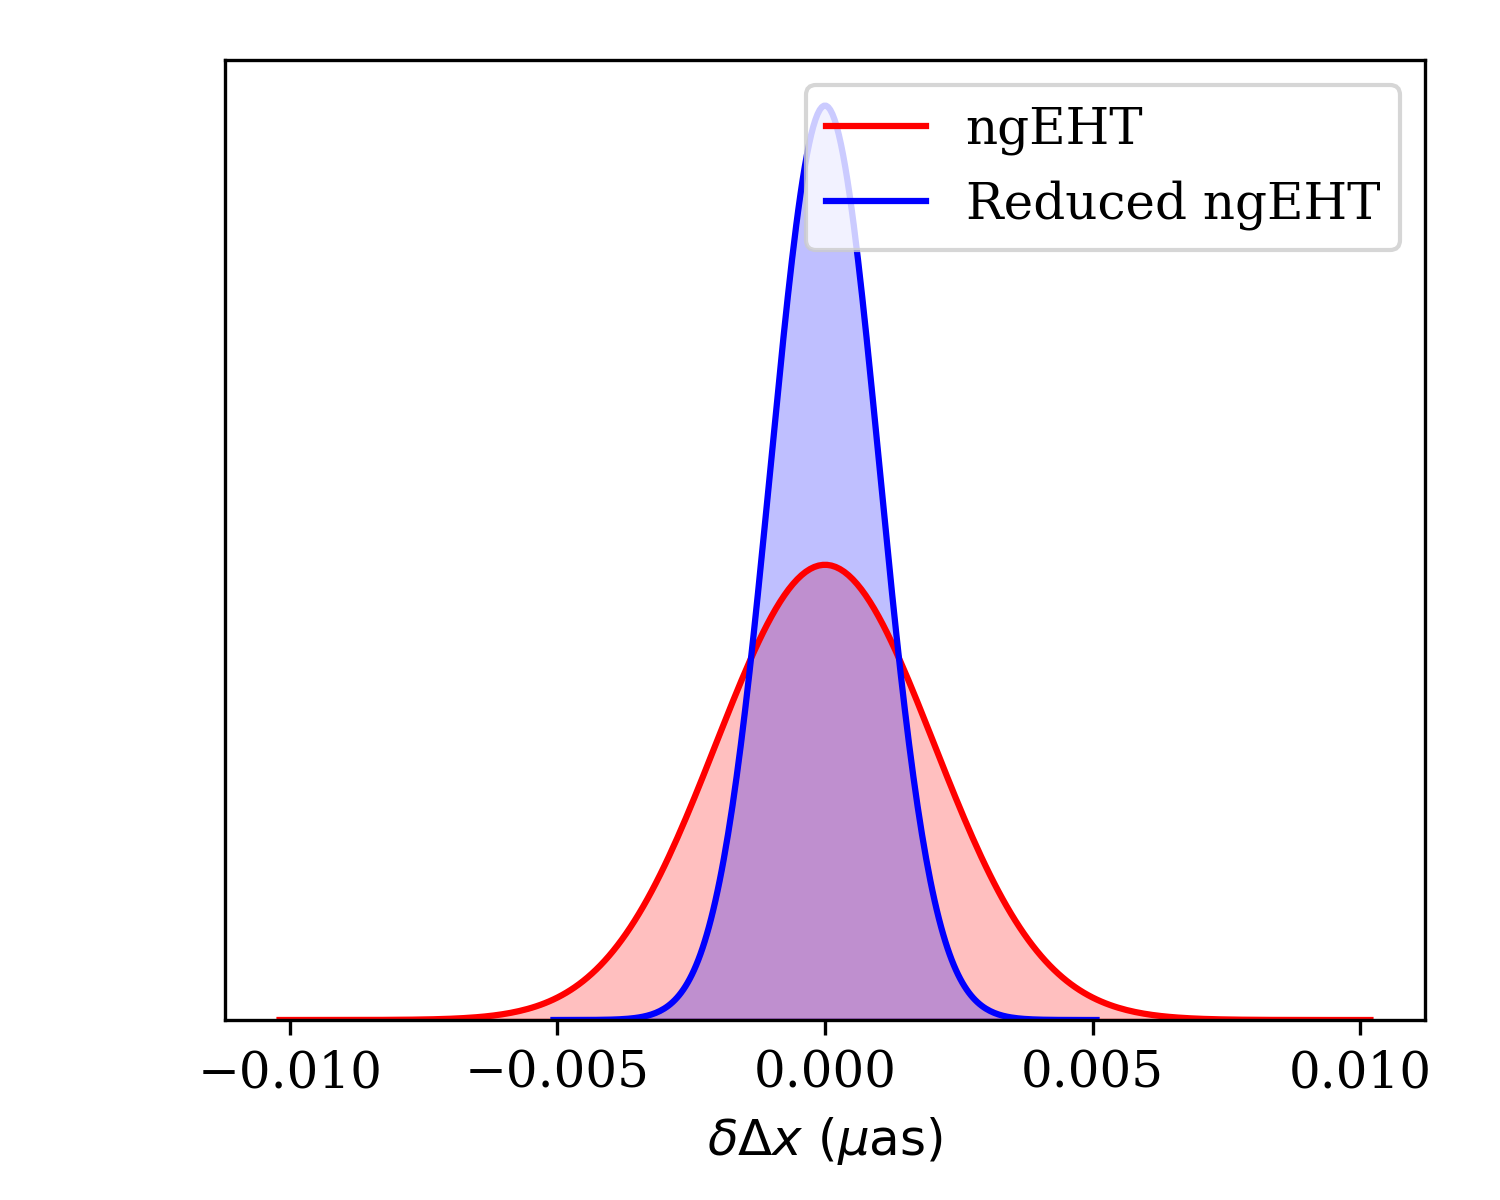
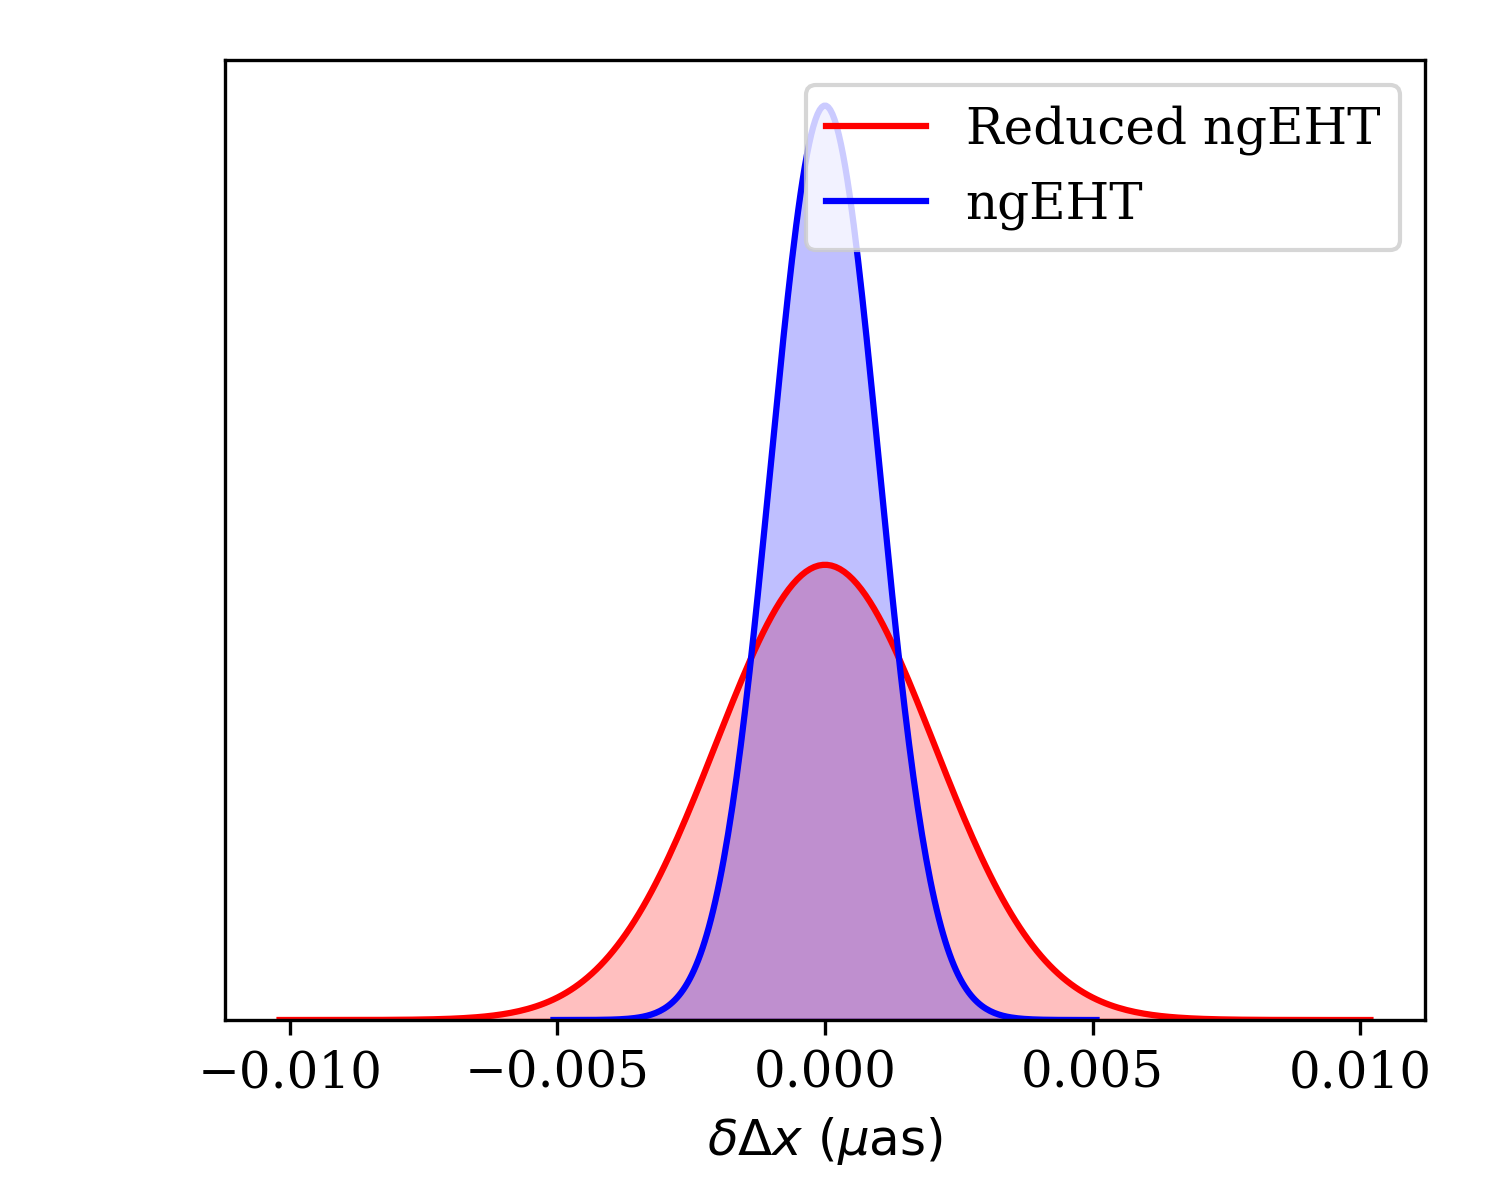
Added a sampling function and included its use in the forecasting tutorial.

Changed region(s): [[0.644, 0.1542, 0.92, 0.185], [0.644, 0.0925, 0.92, 0.1233]]

diff --git a/ngEHTforecast/fisher/fisher_forecast.py b/ngEHTforecast/fisher/fisher_forecast.py
@@ -633,6 +633,41 @@ class FisherForecast :
         
         return Sig_uni, Sig_marg
 
+
+    def sample_posterior(self, obs, p, N, ilist=None, verbosity=0, **kwargs) :
+        """
+        Generates a chain of samples appropriate for post-processing as done in MCMC
+        analyses.  Such chains may be useful for computing the posterior on complicated
+        non-linear quantities.
+
+        Args:
+          obs (ehtim.obsdata.Obsdata): An Obsdata object containing the observation particulars.
+          p (list): List of parameter values at which to compute uncertainties.
+          N (int): Number of samples to generate.
+          ilist (list): List of parameters to sample, marginalizing over all others. If None, all parameters are sampled. Default: None.
+
+        Returns:
+          (numpy.ndarray): Two-dimensional array containing chain of parameter samples.
+        """
+
+        mC = self.marginalized_covariance(obs,p,ilist)
+
+        l,e = np.linalg.eigh(mC)
+
+        if (verbosity>0) :
+            print("Eigenvalues ---")
+            _print_vector(l)
+
+        Sig = np.sqrt(2.0/l)
+
+        chain = np.random.normal(size=(N,len(Sig))) * Sig
+        print(chain.shape)
+
+        chain = np.matmul(chain,e.T)
+
+        return chain
+        
+    
     
     def joint_biparameter_chisq(self,obs,p,i1,i2,kind='marginalized',verbosity=0,**kwargs) :
         """

diff --git a/tutorials/forecasting.py b/tutorials/forecasting.py
@@ -46,12 +46,24 @@ Sigma_obs2 = ffg.marginalized_uncertainties(obs2,p,ilist=[0,2,6,7])
 print("Sigma's for obs:",Sigma_obs)
 print("Sigma's for obs2:",Sigma_obs2)
 
-ffg.plot_1d_forecast([obs2,obs],p,6,labels=['ngEHT','Reduced ngEHT'])
+ffg.plot_1d_forecast([obs2,obs],p,6,labels=['Reduced ngEHT','ngEHT'])
 plt.savefig('tutorial_1d.png',dpi=300)
 
-ffg.plot_2d_forecast([obs2,obs],p,6,7,labels=['ngEHT','Reduced ngEHT'])
+ffg.plot_2d_forecast([obs2,obs],p,6,7,labels=['Reduced ngEHT','ngEHT'])
 plt.savefig('tutorial_2d.png',dpi=300)
 
-ffg.plot_triangle_forecast([obs2,obs],p,labels=['ngEHT','Reduced ngEHT'],axis_location=[0.075,0.075,0.9,0.9])
+ffg.plot_triangle_forecast([obs2,obs],p,labels=['Reduced ngEHT','ngEHT'],axis_location=[0.075,0.075,0.9,0.9])
 plt.savefig('tutorial_tri.png',dpi=300)
+
+
+#################################################
+## Create a chain for fun
+##
+chain = ffg.sample_posterior(obs,p,100,ilist=[6,7])
+ffg.plot_2d_forecast([obs2,obs],p,6,7,labels=['Reduced ngEHT','ngEHT'])
+plt.plot(chain[:,0],chain[:,1],'.b')
+plt.savefig('tutorial_2d_wsamples.png',dpi=300)
+
+
+
 

diff --git a/docs/src/tutorials.rst b/docs/src/tutorials.rst
@@ -359,6 +359,35 @@ labels are visible.
    function.  The two sets of contours correspond to the different observations
    generated in :ref:`Creating an Obsdata object`.
 
+Chains of samples of the posterior forecasts can be produced via the
+:meth:`fisher.fisher_forecast.FisherForecast.sample_posterior` function.
+These chains can be generated for a subset of the parameter space, marginalizing
+the posterior analytically over the remaining parameters.  For example, to add
+samples to the joint parameter plot made above:
+
+.. code-block:: python
+   :emphasize-lines: 1
+
+   chain = ffg.sample_posterior(obs,p,100,ilist=[6,7])
+   ffg.plot_2d_forecast([obs2,obs],p,6,7,labels=['ngEHT','Reduced ngEHT'])
+   plt.plot(chain[:,0],chain[:,1],'.b')
+   plt.savefig('tutorial_2d_wsamples.png',dpi=300)
+
+Chains can be used to assess the implications for quantities that are functions
+of the underlying model parameters in a fashion similar to those employed in
+typical sampling methods.  While for many such cases, applying standard error
+propagation formulae will be more efficient, when the function is complicated or
+nonlinear, sampling can be conceptually more simple and practically more useful.
+
+.. figure:: ./tutorials_figures/tutorial_2d_wsamples.png
+   :scale: 25%
+
+   Marginalized joint posterior on the shift in RA and Dec between the two
+   binary components made using
+   :meth:`fisher.fisher_forecast.FisherForecast.plot_2d_forecast`
+   function together with 100 samples drawn from the "ngEHT" posterior using
+   the :meth:`fisher.fisher_forecast.FisherForecast.sample_posterior`.
+
 All of the above may be found in the Python_ script **tutorials/forecasting.py**.
 
 
